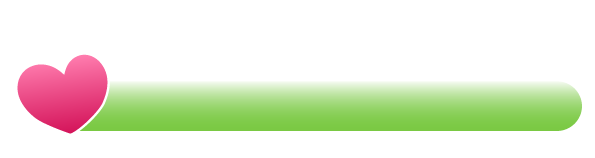
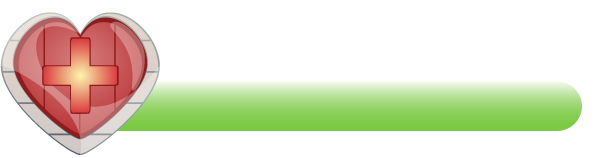
change images of items

Changed region(s): [[0.0, 0.0759, 0.2723, 0.9873]]

diff --git a/models/world.class.js b/models/world.class.js
@@ -8,9 +8,9 @@ class World {
     camera_x = -150;
     statusBars = newStatusBars;
     throwableObjects = [];
-    coin;
+    apple;
     crystal;
-    sound_pickup_coin = new Audio('../audio/coin-pickup.flac');
+    sound_pickup_apple = new Audio('../audio/apple-pickup.flac');
     sound_pickup_crystal = new Audio('../audio/crystal_pickup.wav');
 
     constructor(canvas, keyboard) {
@@ -35,7 +35,7 @@ class World {
         this.ctx.translate(this.camera_x, 0); // Bildausschnitt wird nach links verschoben.
 
         this.addObjectsToMap(this.level.crystals);
-        this.addObjectsToMap(this.level.coins);
+        this.addObjectsToMap(this.level.apples);
 
         this.addToMap(this.character);
 
@@ -117,14 +117,14 @@ class World {
                 }, 500);
             };
         });
-        this.level.coins.forEach((coin) => {
-            if (this.character.isColliding(coin) && this.statusBars[0].percentage < 100) {
+        this.level.apples.forEach((apple) => {
+            if (this.character.isColliding(apple) && this.statusBars[0].percentage < 100) {
                 this.statusBars[0].percentage += 5;
                 this.statusBars[0].setPercentage(this.statusBars[0].paths, this.statusBars[0].percentage);
-                this.sound_pickup_coin.play();
+                this.sound_pickup_apple.play();
                 setTimeout(() => {
-                    this.coin = coin;
-                    this.coin.y = -100;
+                    this.apple = apple;
+                    this.apple.y = -100;
                 }, 500);
             };
         });

diff --git a/js/status-bars.js b/js/status-bars.js
@@ -1,10 +1,10 @@
-const PATHS_STATUS_COINS = [
-    '../img/statusbars/coins/0.png',
-    '../img/statusbars/coins/20.png',
-    '../img/statusbars/coins/40.png',
-    '../img/statusbars/coins/60.png',
-    '../img/statusbars/coins/80.png',
-    '../img/statusbars/coins/100.png'
+const PATHS_STATUS_APPLES = [
+    '../img/statusbars/apples/0.png',
+    '../img/statusbars/apples/20.png',
+    '../img/statusbars/apples/40.png',
+    '../img/statusbars/apples/60.png',
+    '../img/statusbars/apples/80.png',
+    '../img/statusbars/apples/100.png'
 ];
 const PATHS_STATUS_HEALTH = [
     '../img/statusbars/health/0.png',
@@ -23,7 +23,7 @@ const PATHS_STATUS_CRYSTALS = [
     '../img/statusbars/crystals/100.png'
 ];
 const newStatusBars = [
-    new StatusBar(PATHS_STATUS_COINS, 5, 0),
+    new StatusBar(PATHS_STATUS_APPLES, 5, 0),
     new StatusBar(PATHS_STATUS_HEALTH, 45, 100),
     new StatusBar(PATHS_STATUS_CRYSTALS, 85, 0)
 ];

diff --git a/models/level.class.js b/models/level.class.js
@@ -6,17 +6,17 @@ class Level {
     grounds;
     plants;
     crystals;
-    coins;
+    apples;
     level_end_x = 2210;
 
-    constructor(enemies, clouds, bgObjects, grounds, plants, crystals, coins) {
+    constructor(enemies, clouds, bgObjects, grounds, plants, crystals, apples) {
         this.enemies = enemies;
         this.clouds = clouds;
         this.bgObjects = bgObjects;
         this.grounds = grounds;
         this.plants = plants;
         this.crystals = crystals;
-        this.coins = coins;
+        this.apples = apples;
     }
 
 }

diff --git a/models/apple.class.js b/models/apple.class.js
@@ -1,12 +1,12 @@
-class Coin extends MovableObject {
+class Apple extends MovableObject {
     
-    y = 320;
+    y = 350;
     x = 300 + Math.random() * 3000; // -> Zufallszahl mal 3000, damit Verteilung passt; 300 fix, damit Startpunkt nicht weiter links
-    height = 100;
-    width = 100;
+    height = 50;
+    width = 50;
 
     constructor() {
-        super().loadImage('../img/coin/coin.png');
+        super().loadImage('../img/apple/apple.png');
     }
     
 }

diff --git a/models/drawable-object.class.js b/models/drawable-object.class.js
@@ -33,7 +33,7 @@ class DrawableObject {
     }
 
     drawRectangle(ctx) {
-        if (this instanceof Character || this instanceof Wraith || this instanceof Demon || this instanceof Crystal || this instanceof Coin) {
+        if (this instanceof Character || this instanceof Wraith || this instanceof Demon || this instanceof Crystal || this instanceof Apple) {
             ctx.beginPath();
             ctx.lineWidth = "5";
             ctx.strokeStyle = "blue";

diff --git a/index.html b/index.html
@@ -20,7 +20,7 @@
     <script src="models/clouds.class.js"></script>
     <script src="models/plants.class.js"></script>
     <script src="models/crystals.class.js"></script>
-    <script src="models/coins.class.js"></script>
+    <script src="models/apple.class.js"></script>
     <script src="js/status-bars.js"></script>
     <script src="models/world.class.js"></script>    
     <script src="models/level.class.js"></script>

diff --git a/levels/level1.js b/levels/level1.js
@@ -64,12 +64,12 @@ const level1 = new Level(
         new Crystal()
     ],
     [
-        new Coin(),
-        new Coin(),
-        new Coin(),
-        new Coin(),
-        new Coin(),
-        new Coin(),
-        new Coin()
+        new Apple(),
+        new Apple(),
+        new Apple(),
+        new Apple(),
+        new Apple(),
+        new Apple(),
+        new Apple()
     ]
 );
